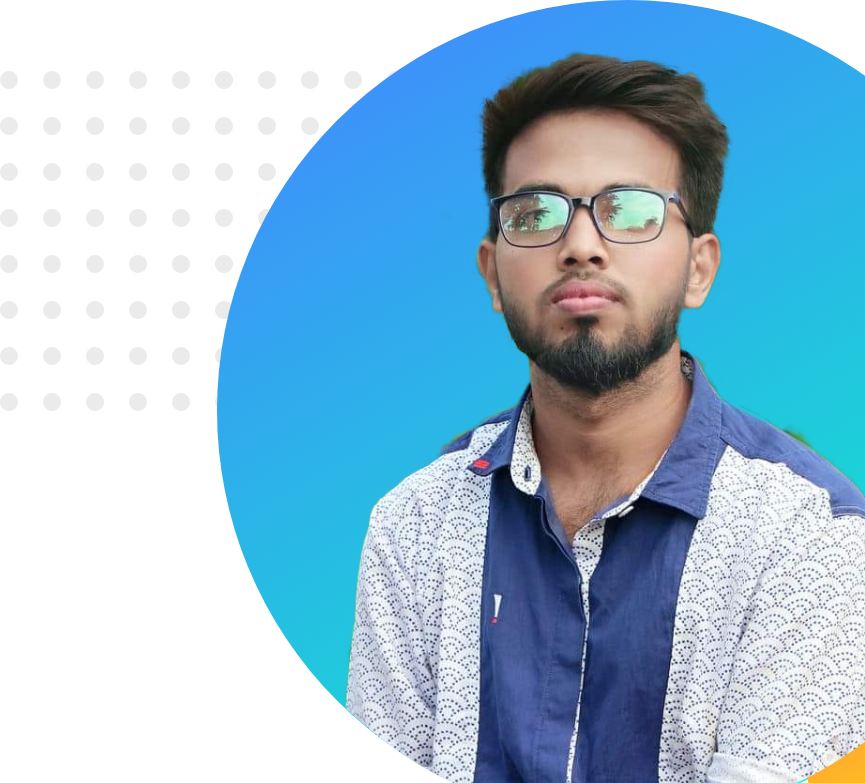
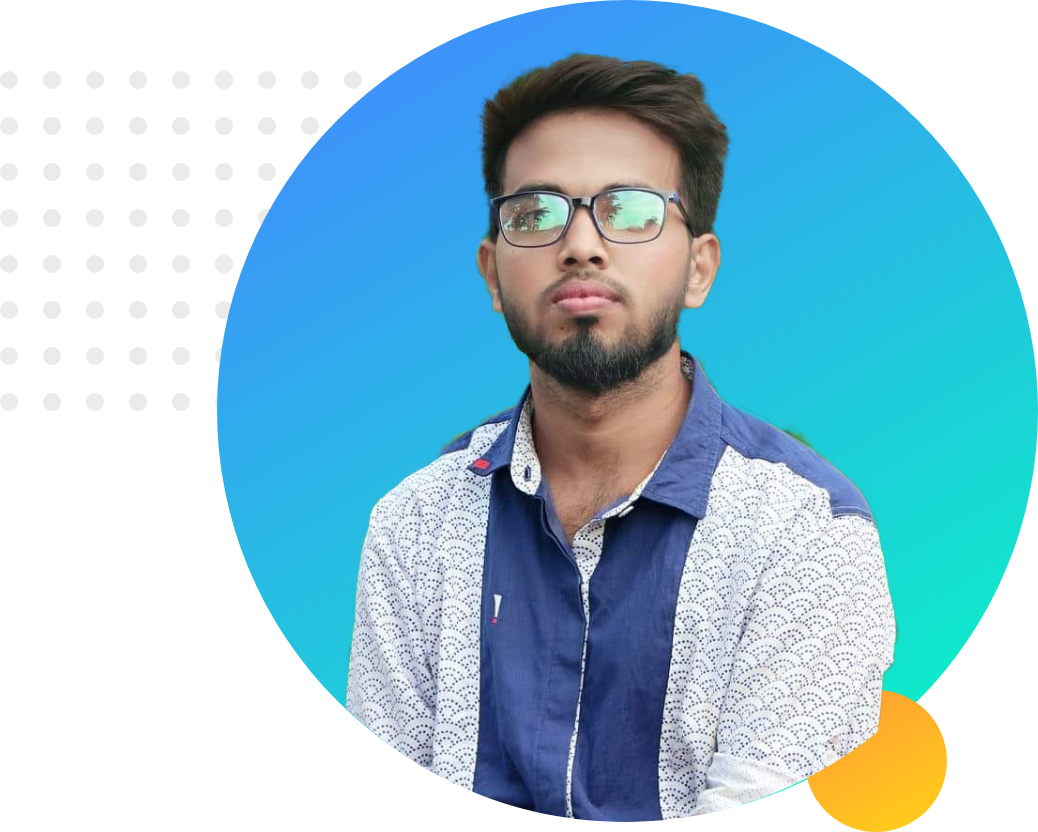
adding css

diff --git a/index.html b/index.html
@@ -3,17 +3,21 @@
 <head>
     <meta charset="UTF-8">
     <meta name="viewport" content="width=device-width, initial-scale=1.0">
+    <link rel="preconnect" href="https://fonts.gstatic.com">
+<link href="https://fonts.googleapis.com/css2?family=Bebas+Neue&family=Roboto:wght@400;500&display=swap" rel="stylesheet">
     <link rel="stylesheet" href="main.css" class="css">
     <title>parsonal-website</title>
    
 </head>
 <body>
-    <section class="header">
+      <!--start of top part-->
+    <section class="top">
         <div class="header-conatiner">
-            <div class="left">
-                <h1>HELLO <span class="highlight">I'M</span></h1>
-                <h1>PARVEJ <span class="highlight">MOSH</span>ARAF</h1>
-                <h3>Full stack  <span class="highlight">web</span> developer</h3>
+            <div class="left ">
+              
+                <h2 >HELLO <span class="highlight">I'M</span></h2>
+                <h1>PARVEJ <span class="highlight">MOSHARAF</span></h1>
+                
                 <p>Lorem ipsum, dolor sit amet consectetur adipisicing elit. Itaque, cumque, magni asperiores officia facilis ipsa illo doloribus voluptas perferendis porro delectus! Accusantium expedita unde debitis tenetur qui sint optio, dolor praesentium alias obcaecati ut odio dicta ratione veniam numquam excepturi, amet quasi ad?</p>
                 <a target="-blank"href="#">HIRE ME</a>
 
@@ -34,5 +38,46 @@
         </div>
 
     </section>
+    <!--end of top part-->
+
+      <!--2nd of top part-->
+
+      <section class="about">
+        <div class="about conatiner">
+            <div class="col-left">
+              
+                <img class="parvej"  src="images/image 9.png" alt=""  >
+            </div>
+        
+       
+       
+       
+            <div class="col-left ">
+                
+              
+                <h2 class="section-title" >ABOUT <span class="highlight">ME</span></h2>
+                
+                
+                <p class="main">Lorem ipsum, dolor sit amet consectetur adipisicing elit. Itaque, cumque, magni asperiores officia facilis ipsa illo doloribus voluptas perferendis porro delectus! Accusantium expedita unde debitis tenetur qui sint optio, dolor praesentium alias obcaecati ut odio dicta ratione veniam numquam excepturi, amet quasi ad?Lorem, ipsum dolor sit amet consectetur adipisicing elit. Id vitae similique a amet sunt aperiam temporibus eius. Soluta odio deserunt esse aliquid ducimus fugit beatae nobis? Quam omnis illo vel voluptatem vitae et consequatur deleniti atque, incidunt non, suscipit, odio error ullam voluptatibus corrupti ex fugit cupiditate? In, distinctio excepturi.</p>
+                <a target="-blank"href="#">DOWNLOAD RESUME</a>
+
+
+         
+        </div>
+       
+       
+       
+       
+       
+       
+        </div>
+
+    </section>
+
+
+
+
+        <!--end of 2nd top part-->
+   
 </body>
 </html>

diff --git a/main.css b/main.css
@@ -1,0 +1,106 @@
+body {
+    margin:0;
+    padding: 0;
+    font-family: 'Bebas Neue', cursive;
+font-family: 'Roboto', sans-serif;
+
+}
+.left{
+    width: 40%;
+    float: left;
+    margin: 33px;
+    padding: 28px;
+}
+.left img{
+   width: 100%;
+
+    
+  
+}
+h2{
+    font-family: 'Bebas Neue', cursive;
+    font-size: 30px;
+    color:black;
+    letter-spacing: .1cm;
+    line-height: .7cm;
+   
+}
+
+h1{
+    font-family: 'Bebas Neue', cursive;
+    font-size: 40px;
+    color: tomato;
+    letter-spacing: .1cm;
+    line-height: .7cm;
+   
+}
+.highlight{
+    color:blue;
+}
+h3{
+    font-family: 'Roboto', sans-serif;
+    font-size: 25px;
+    color: black;
+}
+.top{
+    
+    background-image:url(images/header-bg.png);
+    background-repeat: no-repeat;
+    height: 600px;
+    padding-bottom: 30px;
+   
+   
+    
+
+}
+a{
+    font-family: 'Bebas Neue', cursive;
+    font-size: 20px;
+    padding: 6px 30px;
+    margin: 10px;
+    text-decoration: none;
+    text-transform: uppercase;
+    letter-spacing: 2px;
+    border-radius: 10px;
+    background: linear-gradient(90deg,#0162c8,rgb(255, 122, 122));
+  
+}
+a:hover{
+    background: linear-gradient(90deg,#7b8897,rgb(122, 131, 255)); ;
+}
+/* end  */
+
+
+
+.col-left{
+
+width: 40%;
+    float: left;
+   
+ 
+
+}
+.main{
+    padding-top: 35px;
+  
+}
+
+
+.parvej{
+    height: 400px;
+    padding-left: 200px;
+   
+}
+.about{
+   
+    
+    background-image:url(images/biography-bg.png);
+    background-repeat: no-repeat;
+    height: 550px;
+    padding-top: 30px;
+    
+   
+   
+    
+
+}
